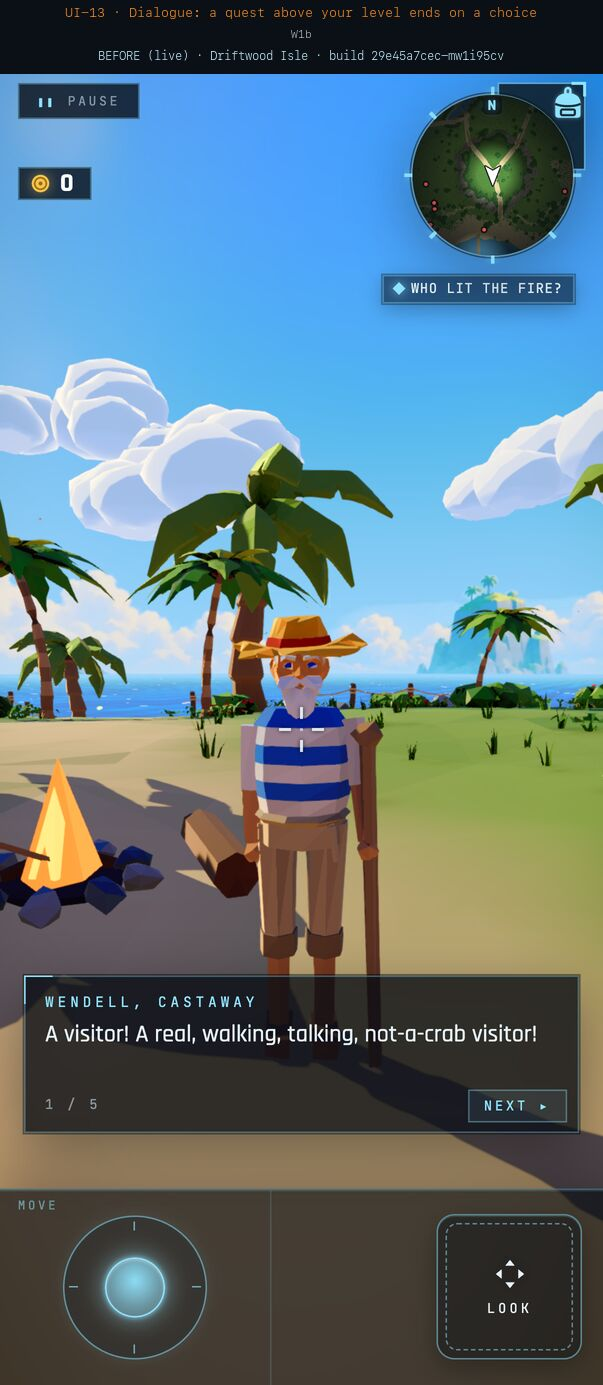
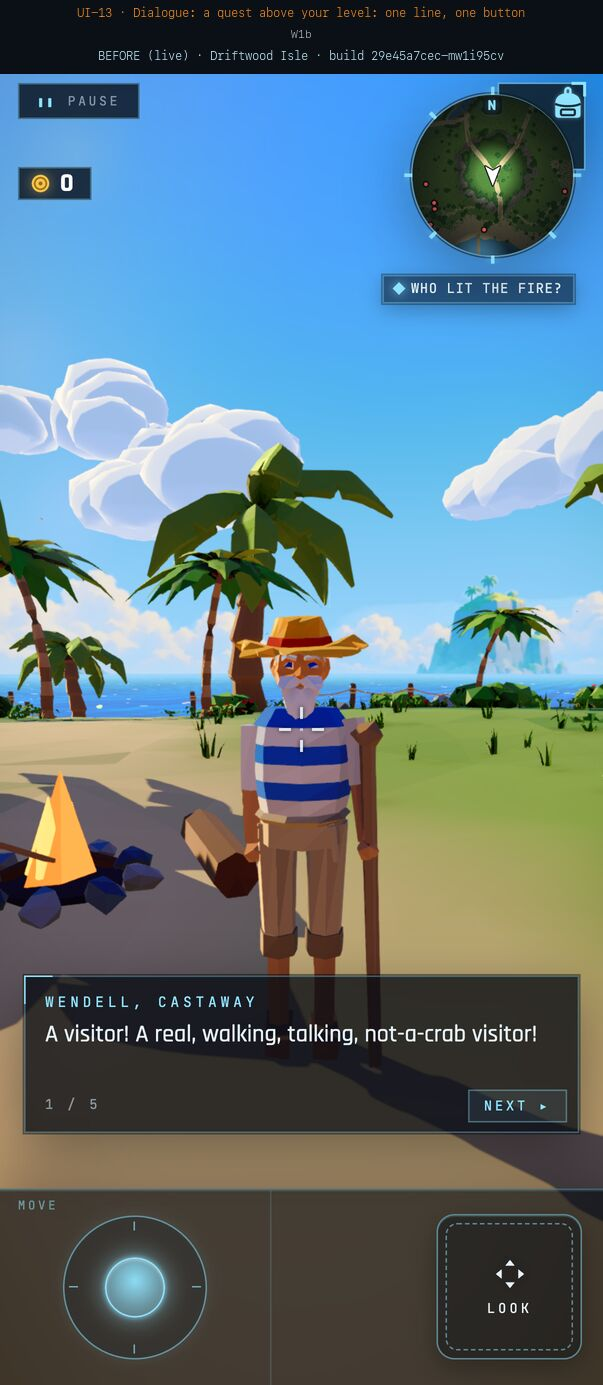
docs(kitchen-sink): toast options, one-button gate
Jake 11-03: UI-18 toasts were very busy, three quieter options. UI-13
shows NEEDS LV 7 once and one OK button. UI-14 quest screens
approved. 28 approved, 5 cut, 5 open.

Assisted-by: Claude-Code:claude-opus-5-5

diff --git a/art/showcase-template/round-12-ui/index.html b/art/showcase-template/round-12-ui/index.html
@@ -11,17 +11,16 @@ figcaption{font-size:11px;color:#9aa3a8;text-align:center;padding-top:3px}
 #z{position:fixed;inset:0;background:#000e;display:none;align-items:center;justify-content:center;touch-action:pinch-zoom}#z img{max-width:100vw;max-height:100vh;max-height:100dvh;width:auto;height:auto;object-fit:contain;display:block}
 </style></head><body><main><h1>Kitchen Sink v2 · every UI change, in engine</h1>
 <p>Round 12 (2026-11-03). Every frame is the real game on a phone in portrait, from a served build of main. BEFORE is the live page as it is today. AFTER is the same live page with the new element added, built from the engine's own HUD classes. Driftwood Isle's crabs, Wendell and Maren stand in for the showcase's robots and NPCs. The names and numbers are the showcase's. Nalati and Pine Hollow are used where their live component is the one the showcase extends. Only the personal-best board (a 3D sign) is a generated edit. Tap a frame to see it big.</p>
-<p>Each HUD change still needs your pick before it is built (the HUD rule). <b>Picks so far: 27 approved · 2 changes asked · 5 cut · 4 pending.</b></p>
+<p>Each HUD change still needs your pick before it is built (the HUD rule). <b>Picks so far: 28 approved · 3 changes asked · 5 cut · 2 pending.</b></p>
 <p><a href="#open" style="color:#8fe3ff">Still open</a> is first; <a href="#ok" style="color:#8fe3ff">Approved</a> is at the bottom. <b>The 38, grouped by what kind of change each is:</b> 4 fight-HUD controls, 6 banners sharing one style, 3 chips sharing one slot, 3 end cards sharing one card, 5 menus, 7 small additions to existing screens, 2 world things, and 8 I'd suggest cutting (shown, not cut).</p>
-<h1 id="open" style="margin-top:40px">Still open (6)</h1><nav class="toc"><a href="#open5">5 · Menus (1)</a><a href="#open6">6 · Small additions to screens that already exist (3)</a><a href="#open7">7 · In the world, not HUD (1)</a><a href="#open8">8 · Could be cut (shown, nothing cut yet) (1)</a></nav><h2 id="open5">5 · Menus</h2><p>Screens you open. Two extend an existing shop screen, one extends Pine’s board.</p><div class="pairs"><section class="pair"><h3><b class="st pending">PENDING</b> UI-14 · Quest list on the map tab (D13, D14) <span>new</span></h3><p>MAP | QUESTS sub-tabs in the map tab; QUESTS lists all twelve active, one tracked (feeds the HUD chip).</p><p class="notes">Your notes: 2026-11-03, redone for re-review: &quot;same thing, map and quests can be shared but it must be two nested tabs to toggle them&quot;; now MAP / QUESTS sub-tabs in the map tab, the frame shows QUESTS. Then: &quot;now that we have far more space for quests … show me … the quest list, the quest details … all the quest related screens&quot;; board ui-14-q-board.jpg: the list grouped by tier, one quest’s details, a locked quest, the MAP sub-tab with the tracked quest</p><div class="two"><figure><img loading="lazy" src="ui-14-quest-list-before.jpg" alt="UI-14 before"><figcaption>BEFORE · live</figcaption></figure><figure><img loading="lazy" src="ui-14-quest-list-after.jpg" alt="UI-14 after"><figcaption>AFTER · prototype</figcaption></figure></div><p class="notes">All the quest screens: the list, one quest’s details, a locked quest, the map with the tracked quest:</p><figure><img loading="lazy" src="ui-14-q-board.jpg" alt="UI-14 quest screens"><figcaption>QUESTS list · details · locked · MAP</figcaption></figure></section></div>
-<h2 id="open6">6 · Small additions to screens that already exist</h2><p>A line, a number or a label on something already in the game. No new control.</p><div class="pairs"><section class="pair"><h3><b class="st pending">PENDING</b> UI-13 · REQUIRES LV 7 in the dialogue <span>extends the talk panel</span></h3><p>The real dialogue panel with a quest row and a locked accept button.</p><p class="notes">Your notes: 2026-11-03, redone for re-review: &quot;if there’s a level requirement, you can’t have a next button … you got to choose something&quot;; NEXT is gone: the greyed quest or LATER</p><div class="two"><figure><img loading="lazy" src="ui-13-requires-level-before.jpg" alt="UI-13 before"><figcaption>BEFORE · live</figcaption></figure><figure><img loading="lazy" src="ui-13-requires-level-after.jpg" alt="UI-13 after"><figcaption>AFTER · prototype</figcaption></figure></div></section><section class="pair"><h3><b class="st changes">CHANGES</b> UI-35 · Ammo pouch + picker (D17, D18) <span>extends BOLTS</span></h3><p>Pouch counters on the bolts chip; the weapon pie’s look on the BOLTS disc for iron / pitch / broadhead.</p><p class="notes">Your notes: &quot;I don’t know how I feel about this … show me better variants for how to choose ammo … the main weapon wheel is somewhere else … it looks very messy. Show me a bunch of variants&quot; Variants board ui-35-board.jpg: A tap BOLTS to cycle (recommended), B hold BOLTS for a short stack of three, C three ammo tabs on the bolts chip, D pick the ammo in the bag only</p><div class="two"><figure><img loading="lazy" src="ui-35-ammo-pouch-before.jpg" alt="UI-35 before"><figcaption>BEFORE · live</figcaption></figure><figure><img loading="lazy" src="ui-35-ammo-pouch-after.jpg" alt="UI-35 after"><figcaption>AFTER · prototype</figcaption></figure></div><p class="notes">Variants (A · B · C · D):</p><figure><img loading="lazy" src="ui-35-board.jpg" alt="UI-35 variants"><figcaption>A tap to cycle · B hold for a stack · C tabs on the chip · D in the bag only</figcaption></figure></section><section class="pair"><h3><b class="st changes">CHANGES</b> UI-23 · Stealth: UNSEEN <span>content only</span></h3><p>Nalati’s stealth layer; the hidden state’s label is data.</p><p class="notes">Your notes: &quot;feels busy. Show me a couple of variants. Definitely looks busy on top right with like the two pills&quot;. Variants board ui-23-board.jpg: A the quest chip becomes the stealth chip (recommended), B one small eye row top left, C no words: a dark screen edge and an eye over the crosshair</p><div class="two"><figure><img loading="lazy" src="ui-23-stealth-unseen-before.jpg" alt="UI-23 before"><figcaption>BEFORE · live</figcaption></figure><figure><img loading="lazy" src="ui-23-stealth-unseen-after.jpg" alt="UI-23 after"><figcaption>AFTER · prototype</figcaption></figure></div><p class="notes">Variants (A · B · C):</p><figure><img loading="lazy" src="ui-23-board.jpg" alt="UI-23 variants"><figcaption>A the quest chip says UNSEEN · B one eye row · C the screen edge</figcaption></figure></section></div>
+<h1 id="open" style="margin-top:40px">Still open (5)</h1><nav class="toc"><a href="#open6">6 · Small additions to screens that already exist (3)</a><a href="#open7">7 · In the world, not HUD (1)</a><a href="#open8">8 · Could be cut (shown, nothing cut yet) (1)</a></nav><h2 id="open6">6 · Small additions to screens that already exist</h2><p>A line, a number or a label on something already in the game. No new control.</p><div class="pairs"><section class="pair"><h3><b class="st pending">PENDING</b> UI-13 · REQUIRES LV 7 in the dialogue <span>extends the talk panel</span></h3><p>The real dialogue panel with a quest row and a locked accept button.</p><p class="notes">Your notes: 2026-11-03, redone for re-review: &quot;if there’s a level requirement, you can’t have a next button … you got to choose something&quot;; NEXT is gone: the greyed quest or LATER; then &quot;still messy because it says both … come back level 7 and required level 7 … I really don’t like the … grayed out button, and the button underneath it … the two buttons in the bottom right&quot;: now NEEDS LV 7 once, beside the quest name, and one OK button</p><div class="two"><figure><img loading="lazy" src="ui-13-requires-level-before.jpg" alt="UI-13 before"><figcaption>BEFORE · live</figcaption></figure><figure><img loading="lazy" src="ui-13-requires-level-after.jpg" alt="UI-13 after"><figcaption>AFTER · prototype</figcaption></figure></div></section><section class="pair"><h3><b class="st changes">CHANGES</b> UI-35 · Ammo pouch + picker (D17, D18) <span>extends BOLTS</span></h3><p>Pouch counters on the bolts chip; the weapon pie’s look on the BOLTS disc for iron / pitch / broadhead.</p><p class="notes">Your notes: &quot;I don’t know how I feel about this … show me better variants for how to choose ammo … the main weapon wheel is somewhere else … it looks very messy. Show me a bunch of variants&quot; Variants board ui-35-board.jpg: A tap BOLTS to cycle (recommended), B hold BOLTS for a short stack of three, C three ammo tabs on the bolts chip, D pick the ammo in the bag only</p><div class="two"><figure><img loading="lazy" src="ui-35-ammo-pouch-before.jpg" alt="UI-35 before"><figcaption>BEFORE · live</figcaption></figure><figure><img loading="lazy" src="ui-35-ammo-pouch-after.jpg" alt="UI-35 after"><figcaption>AFTER · prototype</figcaption></figure></div><p class="notes">Variants (A · B · C · D):</p><figure><img loading="lazy" src="ui-35-board.jpg" alt="UI-35 variants"><figcaption>A tap to cycle · B hold for a stack · C tabs on the chip · D in the bag only</figcaption></figure></section><section class="pair"><h3><b class="st changes">CHANGES</b> UI-23 · Stealth: UNSEEN <span>content only</span></h3><p>Nalati’s stealth layer; the hidden state’s label is data.</p><p class="notes">Your notes: &quot;feels busy. Show me a couple of variants. Definitely looks busy on top right with like the two pills&quot;. Variants board ui-23-board.jpg: A the quest chip becomes the stealth chip (recommended), B one small eye row top left, C no words: a dark screen edge and an eye over the crosshair</p><div class="two"><figure><img loading="lazy" src="ui-23-stealth-unseen-before.jpg" alt="UI-23 before"><figcaption>BEFORE · live</figcaption></figure><figure><img loading="lazy" src="ui-23-stealth-unseen-after.jpg" alt="UI-23 after"><figcaption>AFTER · prototype</figcaption></figure></div><p class="notes">Variants (A · B · C):</p><figure><img loading="lazy" src="ui-23-board.jpg" alt="UI-23 variants"><figcaption>A the quest chip says UNSEEN · B one eye row · C the screen edge</figcaption></figure></section></div>
 <h2 id="open7">7 · In the world, not HUD</h2><p>3D things in the level, seen like any other model.</p><div class="pairs"><section class="pair"><h3><b class="st pending">PENDING</b> UI-12 · Quest-giver ! markers <span>new</span></h3><p>Yellow ! when you can take the quest, grey ! when you are too low, both also on the minimap. Wendell and Maren stand in.</p><p class="notes">Your notes: 2026-11-03, redone for re-review: &quot;fine, but … the exclamation mark is way above his head … we can do a bit better&quot;; the ! now sits just above the head, its label above it</p><div class="two"><figure><img loading="lazy" src="ui-12-quest-givers-before.jpg" alt="UI-12 before"><figcaption>BEFORE · live</figcaption></figure><figure><img loading="lazy" src="ui-12-quest-givers-after.jpg" alt="UI-12 after"><figcaption>AFTER · prototype</figcaption></figure></div></section></div>
-<h2 id="open8">8 · Could be cut (shown, nothing cut yet)</h2><p>My suggestions to drop, each with why. Your call; all still in the plan.</p><div class="pairs"><section class="pair"><h3><b class="st pending">PENDING</b> UI-18 · Feat toast + FINDS toast <span>content only</span></h3><p>Today’s toast with the showcase’s Gold 1×1 / Calibration Chip and a west feat.</p><p class="cut">Why cut: Keep today’s single toast stack.</p><div class="two"><figure><img loading="lazy" src="ui-18-feat-finds-toasts-before.jpg" alt="UI-18 before"><figcaption>BEFORE · live</figcaption></figure><figure><img loading="lazy" src="ui-18-feat-finds-toasts-after.jpg" alt="UI-18 after"><figcaption>AFTER · prototype</figcaption></figure></div></section></div>
-<h1 id="ok" style="margin-top:40px">Approved (27)</h1><nav class="toc"><a href="#ok1">1 · New controls on the fight HUD (4)</a><a href="#ok2">2 · Banners: one shared style (6)</a><a href="#ok3">3 · The chip under the minimap: one at a time (3)</a><a href="#ok4">4 · End cards: one shared card (3)</a><a href="#ok5">5 · Menus (4)</a><a href="#ok6">6 · Small additions to screens that already exist (4)</a><a href="#ok7">7 · In the world, not HUD (1)</a><a href="#ok8">8 · Could be cut (shown, nothing cut yet) (2)</a></nav><h2 id="ok1">1 · New controls on the fight HUD</h2><div class="pairs"><section class="pair"><h3><b class="st approved">APPROVED</b> UI-01 · XP bar + LV chip <span>new</span></h3><p>A thin bar on the touch bar’s top edge, &quot;LV 6&quot; and the XP at its left over MOVE. Hidden on every shard without levels.</p><p class="notes">Your notes: &quot;nice … good placement&quot;</p><div class="two"><figure><img loading="lazy" src="ui-01-xp-bar-before.jpg" alt="UI-01 before"><figcaption>BEFORE · live</figcaption></figure><figure><img loading="lazy" src="ui-01-xp-bar-after.jpg" alt="UI-01 after"><figcaption>AFTER · prototype</figcaption></figure></div></section><section class="pair"><h3><b class="st approved">APPROVED</b> UI-04 · Enemy nameplates within 25 m <span>extends Combat.ts</span></h3><p>&quot;Lv n Name&quot; in the con colour (grey, green, yellow, orange, red, skull), a stagger bar, burn / shock tint, a RARE tag. Crabs stand in for robots.</p><p class="notes">Your notes: &quot;looks good to me&quot;</p><div class="two"><figure><img loading="lazy" src="ui-04-nameplates-before.jpg" alt="UI-04 before"><figcaption>BEFORE · live</figcaption></figure><figure><img loading="lazy" src="ui-04-nameplates-after.jpg" alt="UI-04 after"><figcaption>AFTER · prototype</figcaption></figure></div></section><section class="pair"><h3><b class="st approved">APPROVED</b> UI-05 · Floating combat text <span>extends Combat.ts</span></h3><p>A big yellow crit, a small grey glance, the DEFLECT and PARRY words, red −12 and DODGE by your vitals. Six on screen, the cap.</p><p class="notes">Your notes: &quot;looks good to me&quot;</p><div class="two"><figure><img loading="lazy" src="ui-05-floating-text-before.jpg" alt="UI-05 before"><figcaption>BEFORE · live</figcaption></figure><figure><img loading="lazy" src="ui-05-floating-text-after.jpg" alt="UI-05 after"><figcaption>AFTER · prototype</figcaption></figure></div></section><section class="pair"><h3><b class="st approved">APPROVED</b> UI-06 · GUARD button (D6) <span>new</span></h3><p>Four in a row: GUARD · LOCK · DODGE · JUMP, GUARD in the slot the spear’s THROW takes, only while the sword is held; its rim lights in the parry window.</p><p class="notes">Your notes: &quot;I think that's okay&quot;; then &quot;four in a row, approved&quot;: GUARD · LOCK · DODGE · JUMP, GUARD in the slot the spear's THROW takes (frame redone)</p><div class="two"><figure><img loading="lazy" src="ui-06-guard-button-before.jpg" alt="UI-06 before"><figcaption>BEFORE · live</figcaption></figure><figure><img loading="lazy" src="ui-06-guard-button-after.jpg" alt="UI-06 after"><figcaption>AFTER · prototype</figcaption></figure></div></section></div>
+<h2 id="open8">8 · Could be cut (shown, nothing cut yet)</h2><p>My suggestions to drop, each with why. Your call; all still in the plan.</p><div class="pairs"><section class="pair"><h3><b class="st changes">CHANGES</b> UI-18 · Feat toast + FINDS toast <span>content only</span></h3><p>Today’s toast with the showcase’s Gold 1×1 / Calibration Chip and a west feat.</p><p class="cut">Why cut: Keep today’s single toast stack.</p><p class="notes">Your notes: &quot;definitely very busy&quot;. Options board ui-18-board.jpg: A one short line at a time (recommended), B a small centred card that fades, C no toast: +1 FIND by the bag</p><div class="two"><figure><img loading="lazy" src="ui-18-feat-finds-toasts-before.jpg" alt="UI-18 before"><figcaption>BEFORE · live</figcaption></figure><figure><img loading="lazy" src="ui-18-feat-finds-toasts-after.jpg" alt="UI-18 after"><figcaption>AFTER · prototype</figcaption></figure></div><p class="notes">Options (A · B · C):</p><figure><img loading="lazy" src="ui-18-board.jpg" alt="UI-18 options"><figcaption>A one short line · B a centred card that fades · C +1 FIND by the bag</figcaption></figure></section></div>
+<h1 id="ok" style="margin-top:40px">Approved (28)</h1><nav class="toc"><a href="#ok1">1 · New controls on the fight HUD (4)</a><a href="#ok2">2 · Banners: one shared style (6)</a><a href="#ok3">3 · The chip under the minimap: one at a time (3)</a><a href="#ok4">4 · End cards: one shared card (3)</a><a href="#ok5">5 · Menus (5)</a><a href="#ok6">6 · Small additions to screens that already exist (4)</a><a href="#ok7">7 · In the world, not HUD (1)</a><a href="#ok8">8 · Could be cut (shown, nothing cut yet) (2)</a></nav><h2 id="ok1">1 · New controls on the fight HUD</h2><div class="pairs"><section class="pair"><h3><b class="st approved">APPROVED</b> UI-01 · XP bar + LV chip <span>new</span></h3><p>A thin bar on the touch bar’s top edge, &quot;LV 6&quot; and the XP at its left over MOVE. Hidden on every shard without levels.</p><p class="notes">Your notes: &quot;nice … good placement&quot;</p><div class="two"><figure><img loading="lazy" src="ui-01-xp-bar-before.jpg" alt="UI-01 before"><figcaption>BEFORE · live</figcaption></figure><figure><img loading="lazy" src="ui-01-xp-bar-after.jpg" alt="UI-01 after"><figcaption>AFTER · prototype</figcaption></figure></div></section><section class="pair"><h3><b class="st approved">APPROVED</b> UI-04 · Enemy nameplates within 25 m <span>extends Combat.ts</span></h3><p>&quot;Lv n Name&quot; in the con colour (grey, green, yellow, orange, red, skull), a stagger bar, burn / shock tint, a RARE tag. Crabs stand in for robots.</p><p class="notes">Your notes: &quot;looks good to me&quot;</p><div class="two"><figure><img loading="lazy" src="ui-04-nameplates-before.jpg" alt="UI-04 before"><figcaption>BEFORE · live</figcaption></figure><figure><img loading="lazy" src="ui-04-nameplates-after.jpg" alt="UI-04 after"><figcaption>AFTER · prototype</figcaption></figure></div></section><section class="pair"><h3><b class="st approved">APPROVED</b> UI-05 · Floating combat text <span>extends Combat.ts</span></h3><p>A big yellow crit, a small grey glance, the DEFLECT and PARRY words, red −12 and DODGE by your vitals. Six on screen, the cap.</p><p class="notes">Your notes: &quot;looks good to me&quot;</p><div class="two"><figure><img loading="lazy" src="ui-05-floating-text-before.jpg" alt="UI-05 before"><figcaption>BEFORE · live</figcaption></figure><figure><img loading="lazy" src="ui-05-floating-text-after.jpg" alt="UI-05 after"><figcaption>AFTER · prototype</figcaption></figure></div></section><section class="pair"><h3><b class="st approved">APPROVED</b> UI-06 · GUARD button (D6) <span>new</span></h3><p>Four in a row: GUARD · LOCK · DODGE · JUMP, GUARD in the slot the spear’s THROW takes, only while the sword is held; its rim lights in the parry window.</p><p class="notes">Your notes: &quot;I think that's okay&quot;; then &quot;four in a row, approved&quot;: GUARD · LOCK · DODGE · JUMP, GUARD in the slot the spear's THROW takes (frame redone)</p><div class="two"><figure><img loading="lazy" src="ui-06-guard-button-before.jpg" alt="UI-06 before"><figcaption>BEFORE · live</figcaption></figure><figure><img loading="lazy" src="ui-06-guard-button-after.jpg" alt="UI-06 after"><figcaption>AFTER · prototype</figcaption></figure></div></section></div>
 <h2 id="ok2">2 · Banners: one shared style</h2><div class="pairs"><section class="pair"><h3><b class="st approved">APPROVED</b> UI-02 · Level-up in a fight <span>new</span></h3><p>Never blocks: a ring off the chip, the chip flips to LV 7, one gain line above it, HP refilled (VITALS 31 → 179).</p><p class="notes">Your notes: &quot;Yeah, sure&quot;</p><div class="two"><figure><img loading="lazy" src="ui-02-levelup-fight-before.jpg" alt="UI-02 before"><figcaption>BEFORE · live</figcaption></figure><figure><img loading="lazy" src="ui-02-levelup-fight-after.jpg" alt="UI-02 after"><figcaption>AFTER · prototype</figcaption></figure></div></section><section class="pair"><h3><b class="st approved">APPROVED</b> UI-07 · Named elite: NAMED ELITE · LV 6 <span>extends EliteBar</span></h3><p>Nalati’s real banner and pinned bar, with the showcase’s Big Pallet and an LV tag.</p><p class="notes">Your notes: &quot;looks very similar … nice&quot;</p><div class="two"><figure><img loading="lazy" src="ui-07-elite-banner-before.jpg" alt="UI-07 before"><figcaption>BEFORE · live</figcaption></figure><figure><img loading="lazy" src="ui-07-elite-banner-after.jpg" alt="UI-07 after"><figcaption>AFTER · prototype</figcaption></figure></div></section><section class="pair"><h3><b class="st approved">APPROVED</b> UI-24 · Gauntlet wave banner <span>new</span></h3><p>WAVE 2 / 5 big in the middle as a wave starts, in the boundary warning’s type, fading after ~2 s. Nothing stays on screen.</p><p class="notes">Your notes: redone frame approved, &quot;UI 24 looks good&quot; (WAVE 2 / 5 in the middle only, fades; no chip). First round: keep &quot;WAVE 2 / 5&quot; big in the middle of the screen when a wave starts (&quot;kind of cool&quot;); drop the wave chip that stays under the quest chip: &quot;too fucking busy … we can't have those permanent banners&quot;</p><div class="two"><figure><img loading="lazy" src="ui-24-wave-banner-before.jpg" alt="UI-24 before"><figcaption>BEFORE · live</figcaption></figure><figure><img loading="lazy" src="ui-24-wave-banner-after.jpg" alt="UI-24 after"><figcaption>AFTER · prototype</figcaption></figure></div></section><section class="pair"><h3><b class="st approved">APPROVED</b> UI-26 · Boss intro title card <span>content only</span></h3><p>The real letterbox, name card and HOLD TO SKIP ring: THE CRATE TITAN · LV 20.</p><p class="notes">Your notes: &quot;fine … looks fine&quot;</p><div class="two"><figure><img loading="lazy" src="ui-26-cutscene-card-before.jpg" alt="UI-26 before"><figcaption>BEFORE · live</figcaption></figure><figure><img loading="lazy" src="ui-26-cutscene-card-after.jpg" alt="UI-26 after"><figcaption>AFTER · prototype</figcaption></figure></div></section><section class="pair"><h3><b class="st approved">APPROVED</b> UI-22 · Storm hour <span>the wave banner’s line</span></h3><p>One centred line as the hour starts, fading after ~2 s; lighting a beacon flashes BEACON 2 / 4 the same way. No minimap beacons, no toast; the storm chip is today’s.</p><p class="notes">Your notes: redone frame approved, &quot;UI 22 looks good&quot;. First round: &quot;way too busy … the beacons on the minimap is way too busy … a really more minimalist, lightweight&quot; one; now one centred STORM HOUR line that fades, no minimap beacons, no toast, the storm chip unchanged</p><div class="two"><figure><img loading="lazy" src="ui-22-storm-hour-before.jpg" alt="UI-22 before"><figcaption>BEFORE · live</figcaption></figure><figure><img loading="lazy" src="ui-22-storm-hour-after.jpg" alt="UI-22 after"><figcaption>AFTER · prototype</figcaption></figure></div></section><section class="pair"><h3><b class="st approved">APPROVED</b> UI-17 · Checkpoint card (QC6) <span>new</span></h3><p>A quest leg done and saved: the reward caption’s type with a CHECKPOINT SAVED tick.</p><p class="notes">Your notes: &quot;Yeah, cool. Let's do it.&quot;</p><div class="two"><figure><img loading="lazy" src="ui-17-checkpoint-card-before.jpg" alt="UI-17 before"><figcaption>BEFORE · live</figcaption></figure><figure><img loading="lazy" src="ui-17-checkpoint-card-after.jpg" alt="UI-17 after"><figcaption>AFTER · prototype</figcaption></figure></div></section></div>
 <h2 id="ok3">3 · The chip under the minimap: one at a time</h2><div class="pairs"><section class="pair"><h3><b class="st approved">APPROVED</b> UI-20 · Course clock chip (D22) <span>reuses the weather chip</span></h3><p>Only during a run, in the quest chip’s place (the quest chip hides and comes back when the run ends): time, checkpoint, PB.</p><p class="notes">Your notes: redone frame approved, &quot;UI 20 looks good&quot;. First round: &quot;it can hide the quest chip whilst it's showing the course clock … when we're done … show the quest chip again … not be so busy&quot;; the clock now takes the quest chip's place</p><div class="two"><figure><img loading="lazy" src="ui-20-course-clock-before.jpg" alt="UI-20 before"><figcaption>BEFORE · live</figcaption></figure><figure><img loading="lazy" src="ui-20-course-clock-after.jpg" alt="UI-20 after"><figcaption>AFTER · prototype</figcaption></figure></div></section><section class="pair"><h3><b class="st approved">APPROVED</b> UI-29 · Training Vault sealed room <span>new</span></h3><p>Picked A: inside the vault the tracked quest hides and one chip takes its place, TRAINING VAULT | ROOM 2/4 · 3 LEFT; the quest chip comes back when you leave.</p><p class="notes">Your notes: &quot;way too busy … hide the rest of the quest … a dungeon specific quest chip, but like just one … I need new ideas&quot;; then &quot;we can pick A for the UI 29, the vault stuff&quot;. **A:** inside the vault the tracked quest hides and one chip takes its place, TRAINING VAULT · ROOM 2/4 · 3 LEFT; the quest chip comes back on leaving (ui-29-opt-a.jpg)</p><div class="two"><figure><img loading="lazy" src="ui-29-vault-room-before.jpg" alt="UI-29 before"><figcaption>BEFORE · live</figcaption></figure><figure><img loading="lazy" src="ui-29-opt-a.jpg" alt="UI-29 after"><figcaption>AFTER · prototype</figcaption></figure></div><p class="notes">The options you chose from (you picked A):</p><figure><img loading="lazy" src="ui-29-board.jpg" alt="UI-29 options"><figcaption>A · the vault’s own quest chip · B · nothing stays · C · room pips only</figcaption></figure></section><section class="pair"><h3><b class="st approved">APPROVED</b> UI-31 · Hover park trick score <span>new</span></h3><p>A trick word over the board; the running score takes the quest chip’s place while you’re in the park.</p><p class="notes">Your notes: redone frame approved, &quot;UI 31 looks good now&quot;. First round: &quot;the same kind of temporary UI … the timed racing … when we show that kind of UI, we want to hide the normal quest UI … make it tidier&quot;; the trick score now takes the quest chip's place in the park</p><div class="two"><figure><img loading="lazy" src="ui-31-trick-score-before.jpg" alt="UI-31 before"><figcaption>BEFORE · live</figcaption></figure><figure><img loading="lazy" src="ui-31-trick-score-after.jpg" alt="UI-31 after"><figcaption>AFTER · prototype</figcaption></figure></div></section></div>
 <h2 id="ok4">4 · End cards: one shared card</h2><div class="pairs"><section class="pair"><h3><b class="st approved">APPROVED</b> UI-03 · Level-up card, out of combat <span>new</span></h3><p>After 5 s calm: each gain ticks up in turn, gold on a big roll, grey on +0, TAP TO SKIP.</p><p class="notes">Your notes: &quot;UI 03 looks good to me&quot;</p><div class="two"><figure><img loading="lazy" src="ui-03-levelup-card-before.jpg" alt="UI-03 before"><figcaption>BEFORE · live</figcaption></figure><figure><img loading="lazy" src="ui-03-levelup-card-after.jpg" alt="UI-03 after"><figcaption>AFTER · prototype</figcaption></figure></div></section><section class="pair"><h3><b class="st approved">APPROVED</b> UI-19 · Shard-complete card <span>content only</span></h3><p>The real card with the Titan Cleaver and the showcase’s stats.</p><p class="notes">Your notes: &quot;Ui 19 approved&quot;</p><div class="two"><figure><img loading="lazy" src="ui-19-shard-complete-before.jpg" alt="UI-19 before"><figcaption>BEFORE · live</figcaption></figure><figure><img loading="lazy" src="ui-19-shard-complete-after.jpg" alt="UI-19 after"><figcaption>AFTER · prototype</figcaption></figure></div></section><section class="pair"><h3><b class="st approved">APPROVED</b> UI-30 · SHRINE COMPLETE card <span>reuses the complete card</span></h3><p>Time, best, deaths, rooms, the chest and the trophy; one CONTINUE that closes the card. You leave by walking through the real exit portal and rerun by walking back in.</p><p class="notes">Your notes: redone frame approved, &quot;UI 30 looks fine&quot;. First round: &quot;nice but all the buttons have to be different: leaving the mini dungeon means walking through a real portal, not hitting a button, and you can restart, it needs a change&quot;; now one CONTINUE that only closes the card, and a line: the exit portal is open behind the chest, walk through it to leave, walk back in to run it again</p><div class="two"><figure><img loading="lazy" src="ui-30-shrine-complete-before.jpg" alt="UI-30 before"><figcaption>BEFORE · live</figcaption></figure><figure><img loading="lazy" src="ui-30-shrine-complete-after.jpg" alt="UI-30 after"><figcaption>AFTER · prototype</figcaption></figure></div></section></div>
-<h2 id="ok5">5 · Menus</h2><div class="pairs"><section class="pair"><h3><b class="st approved">APPROVED</b> UI-10 · Character tab (read-only) <span>new tab</span></h3><p>Gear folds into CHARACTER (five tabs); CHARACTER | GEAR sub-tabs inside, opening on CHARACTER: level and XP, the seven attributes against par, ▲▼ aptitude, the derived numbers.</p><p class="notes">Your notes: redone frame approved, &quot;UI 10 looks fine&quot;. First round: &quot;Gear and character can be turned into a single item in the 5 menu icons … two nested tabs for gear and character underneath, default to character&quot;; now five tabs (MAP · CHARACTER · FINDS · PACK · FEATS), CHARACTER / GEAR inside, opens on CHARACTER</p><div class="two"><figure><img loading="lazy" src="ui-10-character-tab-before.jpg" alt="UI-10 before"><figcaption>BEFORE · live</figcaption></figure><figure><img loading="lazy" src="ui-10-character-tab-after.jpg" alt="UI-10 after"><figcaption>AFTER · prototype</figcaption></figure></div></section><section class="pair"><h3><b class="st approved">APPROVED</b> UI-16 · Kill-contract board, fixed mode <span>extends Pine’s board</span></h3><p>Level-locked rows, first-time trophy and joke title.</p><p class="notes">Your notes: &quot;Ui 16 sure&quot;</p><div class="two"><figure><img loading="lazy" src="ui-16-contract-board-before.jpg" alt="UI-16 before"><figcaption>BEFORE · live</figcaption></figure><figure><img loading="lazy" src="ui-16-contract-board-after.jpg" alt="UI-16 after"><figcaption>AFTER · prototype</figcaption></figure></div></section><section class="pair"><h3><b class="st approved">APPROVED</b> UI-32 · Tinker Rook: UPGRADES / BENCH <span>extends ShopPanel</span></h3><p>Two tabs, Scrip and parts on every tile, LV tags and locks.</p><p class="notes">Your notes: &quot;Ui 32 sure&quot;</p><div class="two"><figure><img loading="lazy" src="ui-32-upgrades-bench-before.jpg" alt="UI-32 before"><figcaption>BEFORE · live</figcaption></figure><figure><img loading="lazy" src="ui-32-upgrades-bench-after.jpg" alt="UI-32 after"><figcaption>AFTER · prototype</figcaption></figure></div></section><section class="pair"><h3><b class="st approved">APPROVED</b> UI-33 · The weapons shop <span>extends ShopPanel</span></h3><p>Weapons bought, locked by level (the rifle at LV 10).</p><p class="notes">Your notes: &quot;UI 33 is fine&quot;</p><div class="two"><figure><img loading="lazy" src="ui-33-weapons-shop-before.jpg" alt="UI-33 before"><figcaption>BEFORE · live</figcaption></figure><figure><img loading="lazy" src="ui-33-weapons-shop-after.jpg" alt="UI-33 after"><figcaption>AFTER · prototype</figcaption></figure></div></section></div>
+<h2 id="ok5">5 · Menus</h2><div class="pairs"><section class="pair"><h3><b class="st approved">APPROVED</b> UI-10 · Character tab (read-only) <span>new tab</span></h3><p>Gear folds into CHARACTER (five tabs); CHARACTER | GEAR sub-tabs inside, opening on CHARACTER: level and XP, the seven attributes against par, ▲▼ aptitude, the derived numbers.</p><p class="notes">Your notes: redone frame approved, &quot;UI 10 looks fine&quot;. First round: &quot;Gear and character can be turned into a single item in the 5 menu icons … two nested tabs for gear and character underneath, default to character&quot;; now five tabs (MAP · CHARACTER · FINDS · PACK · FEATS), CHARACTER / GEAR inside, opens on CHARACTER</p><div class="two"><figure><img loading="lazy" src="ui-10-character-tab-before.jpg" alt="UI-10 before"><figcaption>BEFORE · live</figcaption></figure><figure><img loading="lazy" src="ui-10-character-tab-after.jpg" alt="UI-10 after"><figcaption>AFTER · prototype</figcaption></figure></div></section><section class="pair"><h3><b class="st approved">APPROVED</b> UI-14 · Quest list on the map tab (D13, D14) <span>new</span></h3><p>MAP | QUESTS sub-tabs in the map tab; QUESTS lists all twelve active, one tracked (feeds the HUD chip).</p><p class="notes">Your notes: quest screens approved, &quot;the new Quest 1, UI 14 … can work&quot;. Earlier: 2026-11-03, redone for re-review: &quot;same thing, map and quests can be shared but it must be two nested tabs to toggle them&quot;; now MAP / QUESTS sub-tabs in the map tab, the frame shows QUESTS. Then: &quot;now that we have far more space for quests … show me … the quest list, the quest details … all the quest related screens&quot;; board ui-14-q-board.jpg: the list grouped by tier, one quest’s details, a locked quest, the MAP sub-tab with the tracked quest</p><div class="two"><figure><img loading="lazy" src="ui-14-quest-list-before.jpg" alt="UI-14 before"><figcaption>BEFORE · live</figcaption></figure><figure><img loading="lazy" src="ui-14-quest-list-after.jpg" alt="UI-14 after"><figcaption>AFTER · prototype</figcaption></figure></div><p class="notes">All the quest screens: the list, one quest’s details, a locked quest, the map with the tracked quest:</p><figure><img loading="lazy" src="ui-14-q-board.jpg" alt="UI-14 quest screens"><figcaption>QUESTS list · details · locked · MAP</figcaption></figure></section><section class="pair"><h3><b class="st approved">APPROVED</b> UI-16 · Kill-contract board, fixed mode <span>extends Pine’s board</span></h3><p>Level-locked rows, first-time trophy and joke title.</p><p class="notes">Your notes: &quot;Ui 16 sure&quot;</p><div class="two"><figure><img loading="lazy" src="ui-16-contract-board-before.jpg" alt="UI-16 before"><figcaption>BEFORE · live</figcaption></figure><figure><img loading="lazy" src="ui-16-contract-board-after.jpg" alt="UI-16 after"><figcaption>AFTER · prototype</figcaption></figure></div></section><section class="pair"><h3><b class="st approved">APPROVED</b> UI-32 · Tinker Rook: UPGRADES / BENCH <span>extends ShopPanel</span></h3><p>Two tabs, Scrip and parts on every tile, LV tags and locks.</p><p class="notes">Your notes: &quot;Ui 32 sure&quot;</p><div class="two"><figure><img loading="lazy" src="ui-32-upgrades-bench-before.jpg" alt="UI-32 before"><figcaption>BEFORE · live</figcaption></figure><figure><img loading="lazy" src="ui-32-upgrades-bench-after.jpg" alt="UI-32 after"><figcaption>AFTER · prototype</figcaption></figure></div></section><section class="pair"><h3><b class="st approved">APPROVED</b> UI-33 · The weapons shop <span>extends ShopPanel</span></h3><p>Weapons bought, locked by level (the rifle at LV 10).</p><p class="notes">Your notes: &quot;UI 33 is fine&quot;</p><div class="two"><figure><img loading="lazy" src="ui-33-weapons-shop-before.jpg" alt="UI-33 before"><figcaption>BEFORE · live</figcaption></figure><figure><img loading="lazy" src="ui-33-weapons-shop-after.jpg" alt="UI-33 after"><figcaption>AFTER · prototype</figcaption></figure></div></section></div>
 <h2 id="ok6">6 · Small additions to screens that already exist</h2><div class="pairs"><section class="pair"><h3><b class="st approved">APPROVED</b> UI-09 · Death card + XP loss <span>extends DeathFade</span></h3><p>The same card with one more line: −340 XP, 25 % of level 7, never below level 7.</p><p class="notes">Your notes: &quot;UI9 is fine&quot;</p><div class="two"><figure><img loading="lazy" src="ui-09-death-card-before.jpg" alt="UI-09 before"><figcaption>BEFORE · live</figcaption></figure><figure><img loading="lazy" src="ui-09-death-card-after.jpg" alt="UI-09 after"><figcaption>AFTER · prototype</figcaption></figure></div></section><section class="pair"><h3><b class="st approved">APPROVED</b> UI-34 · The 20-slot pack <span>extends PACK</span></h3><p>One slot a kind, never full; unfound kinds as dashed silhouettes.</p><p class="notes">Your notes: &quot;UI 34 looks fine to me&quot;</p><div class="two"><figure><img loading="lazy" src="ui-34-pack-20-before.jpg" alt="UI-34 before"><figcaption>BEFORE · live</figcaption></figure><figure><img loading="lazy" src="ui-34-pack-20-after.jpg" alt="UI-34 after"><figcaption>AFTER · prototype</figcaption></figure></div></section><section class="pair"><h3><b class="st approved">APPROVED</b> UI-08 · Boss bar with phases <span>extends BossBar</span></h3><p>Today’s bar already has phase notches and the PHASE caption; the Crate Titan adds LV 20 and three phase pips.</p><p class="notes">Your notes: &quot;UI08 is fine&quot;</p><div class="two"><figure><img loading="lazy" src="ui-08-boss-bar-before.jpg" alt="UI-08 before"><figcaption>BEFORE · live</figcaption></figure><figure><img loading="lazy" src="ui-08-boss-bar-after.jpg" alt="UI-08 after"><figcaption>AFTER · prototype</figcaption></figure></div></section><section class="pair"><h3><b class="st approved">APPROVED</b> UI-25 · Portal ENTER prompt <span>content only</span></h3><p>The real USE band, reading Enter the Training Vault.</p><p class="notes">Your notes: &quot;UI 25 is fine&quot;</p><div class="two"><figure><img loading="lazy" src="ui-25-portal-enter-before.jpg" alt="UI-25 before"><figcaption>BEFORE · live</figcaption></figure><figure><img loading="lazy" src="ui-25-portal-enter-after.jpg" alt="UI-25 after"><figcaption>AFTER · prototype</figcaption></figure></div></section></div>
 <h2 id="ok7">7 · In the world, not HUD</h2><div class="pairs"><section class="pair"><h3><b class="st approved">APPROVED</b> UI-21 · Personal-best board <span>new world sign</span></h3><p>A 3D sign, so a codex edit of the world band only; the live HUD laid back on top pixel for pixel.</p><p class="notes">Your notes: &quot;looks really funny. But yeah, you can show billboards with information in the world … as signs … it’s gonna look a lot better when placed correctly in the right place&quot; (build it as a real sign, placed properly)</p><div class="two"><figure><img loading="lazy" src="ui-21-pb-board-before.jpg" alt="UI-21 before"><figcaption>BEFORE · live</figcaption></figure><figure><img loading="lazy" src="ui-21-pb-board-after.jpg" alt="UI-21 after"><figcaption>AFTER · prototype</figcaption></figure></div></section></div>
 <h2 id="ok8">8 · Could be cut (shown, nothing cut yet)</h2><div class="pairs"><section class="pair"><h3><b class="st approved">APPROVED</b> UI-11 · The DEFLECT first hint <span>extends FirstHints</span></h3><p>Once, the first time a hit is deflected: fight targets near your level.</p><p class="cut">Why cut: The GUARD button already says it.</p><p class="notes">Your notes: &quot;having a hint is fine … the first time something happened, to … teach mechanisms&quot;</p><div class="two"><figure><img loading="lazy" src="ui-11-deflect-hint-before.jpg" alt="UI-11 before"><figcaption>BEFORE · live</figcaption></figure><figure><img loading="lazy" src="ui-11-deflect-hint-after.jpg" alt="UI-11 after"><figcaption>AFTER · prototype</figcaption></figure></div></section><section class="pair"><h3><b class="st approved">APPROVED</b> UI-36 · Trophy perk card <span>content only</span></h3><p>The real item card: a hung trophy and its always-on perk.</p><p class="cut">Why cut: A plain toast does it.</p><p class="notes">Your notes: &quot;I think UI 36 can be nice&quot;</p><div class="two"><figure><img loading="lazy" src="ui-36-trophy-perk-before.jpg" alt="UI-36 before"><figcaption>BEFORE · live</figcaption></figure><figure><img loading="lazy" src="ui-36-trophy-perk-after.jpg" alt="UI-36 after"><figcaption>AFTER · prototype</figcaption></figure></div></section></div>

diff --git a/docs/plans/kitchen-sink-v2/STATE.md b/docs/plans/kitchen-sink-v2/STATE.md
@@ -18,4 +18,4 @@ and get redone on round 5: E11 (gauntlet), E13 / E14 / S06 (Titan arena), M03 (a
 **Decided 11-03:** Titan 15 m; the Titan road opens after the first gauntlet clear; wave-3 elite Shift Supervisor.
 
 **Open for Jake:** loot may be revisited; taller hover-park ramps; the 38 UI changes one by one in
-[UI-PICKS.md](UI-PICKS.md) (11-03: 27 approved, 5 cut, 6 open).
+[UI-PICKS.md](UI-PICKS.md) (11-03: 28 approved, 5 cut, 5 open).
